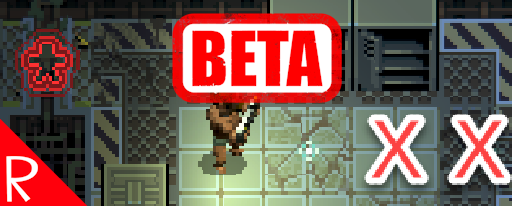
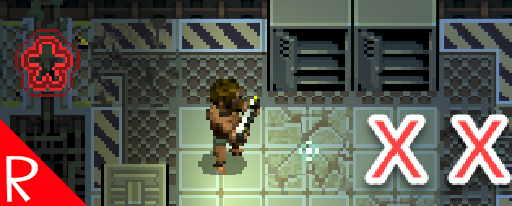
0.9.5 compatible

Changed region(s): [[0.3125, 0.0583, 0.6875, 0.5243]]

diff --git a/README.md b/README.md
@@ -2,13 +2,6 @@
 
 ![Movement path with X's for cancel](media/thumbnail.png)
 
-# Imporant!
-This is for the opt in 0.9.1 beta and does not work for the current release.  Use the version of the mod without the beta suffix.
-
-
-# Docs
-As of 0.9.1 beta, the player will now stop movement any time a visible or detected enemy is detected.  The detected units are represented by the red * on a tile.
-
 This mod allows the user to hold down the control key and continue walking if there are only detected units.  This does not affect seen units.
 
 This is helpful when the player needs to walk down a long hallway and there are detected units that will not be in a position to attack the player.  
